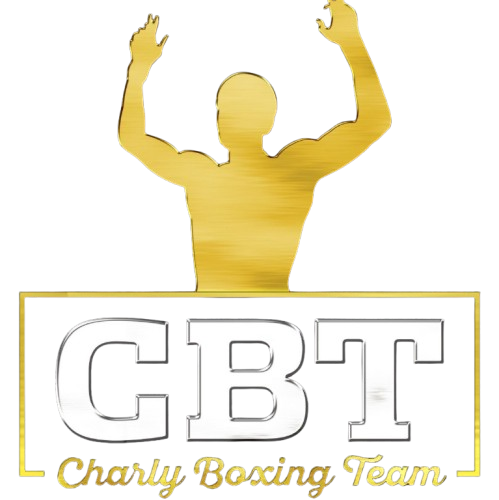
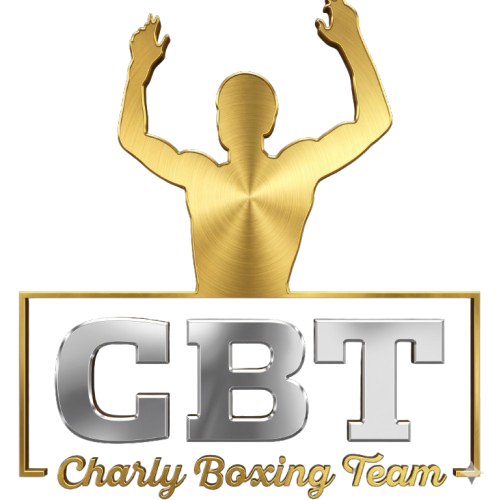
Probando imagenes del Header

Changed region(s): [[0.0301, 0.0, 0.9619, 1.0]]

diff --git a/app/page.tsx b/app/page.tsx
@@ -20,8 +20,8 @@ export default function HomePage() {
         <Image
           //src="/imagen9.png"
           //src="/imagen10.png"
-          src="/imagen12.png"
-          //src="/CBT_dorado.png"
+          src="/CBT_fotografia.png"
+          //src="/CBT_fotografia.jp"
           //src="/CBT_dorado.png"
           //src="/imagen5.png"
           alt="Charly Boxing Team"
